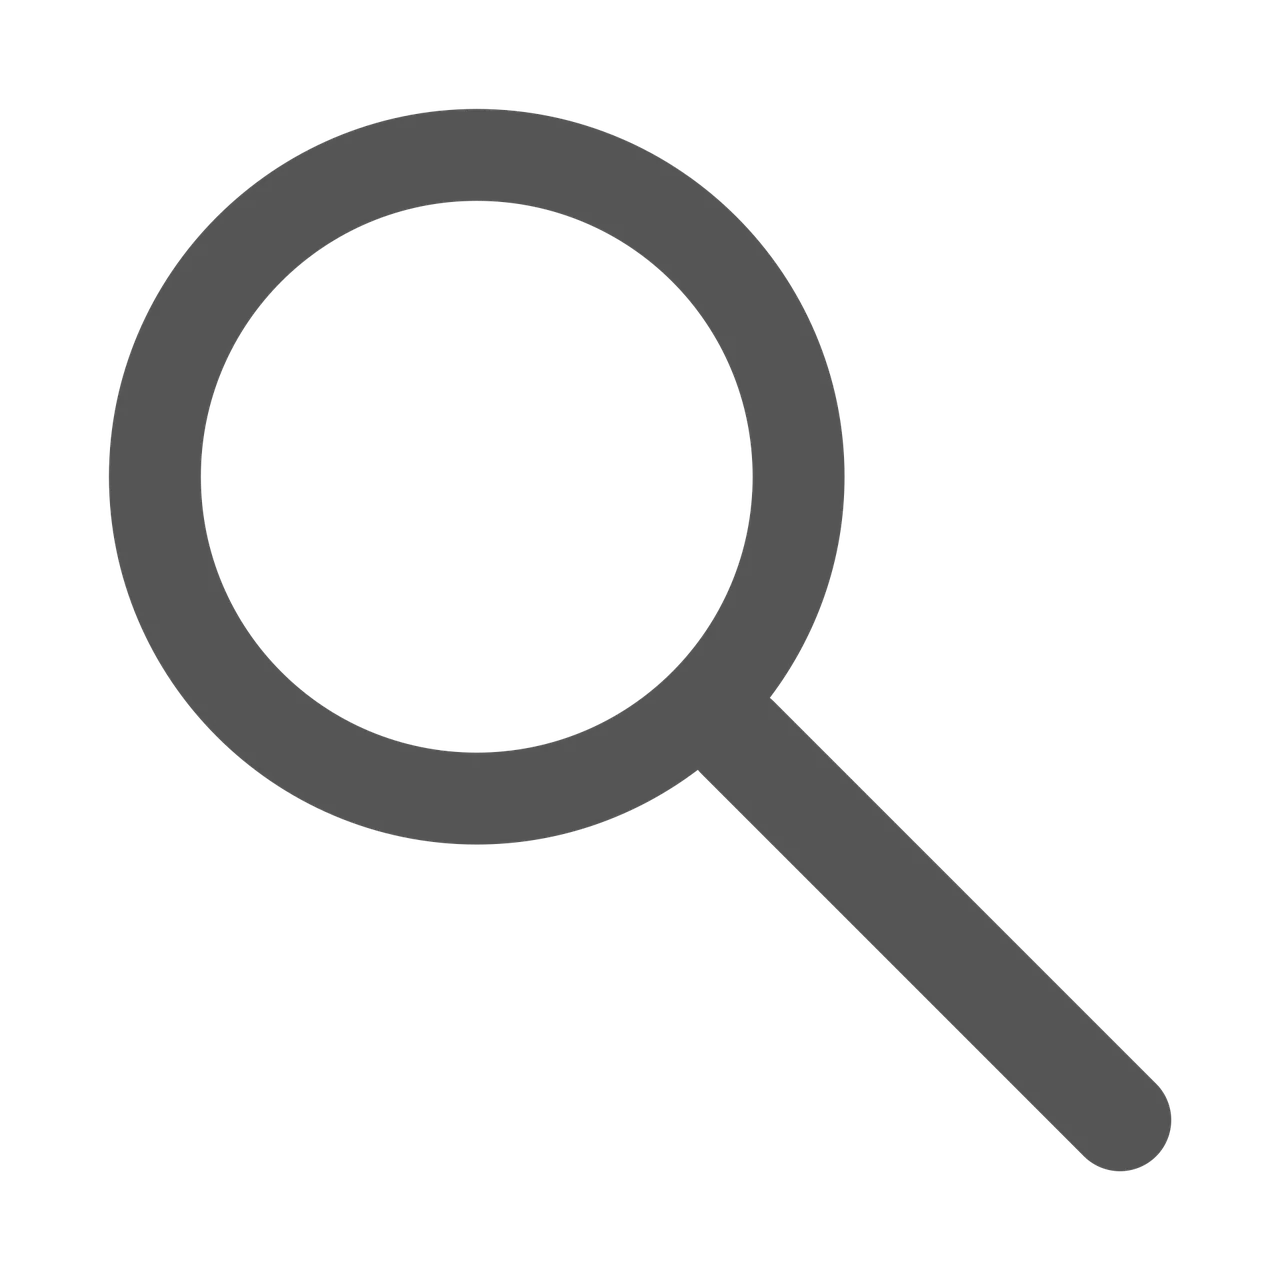
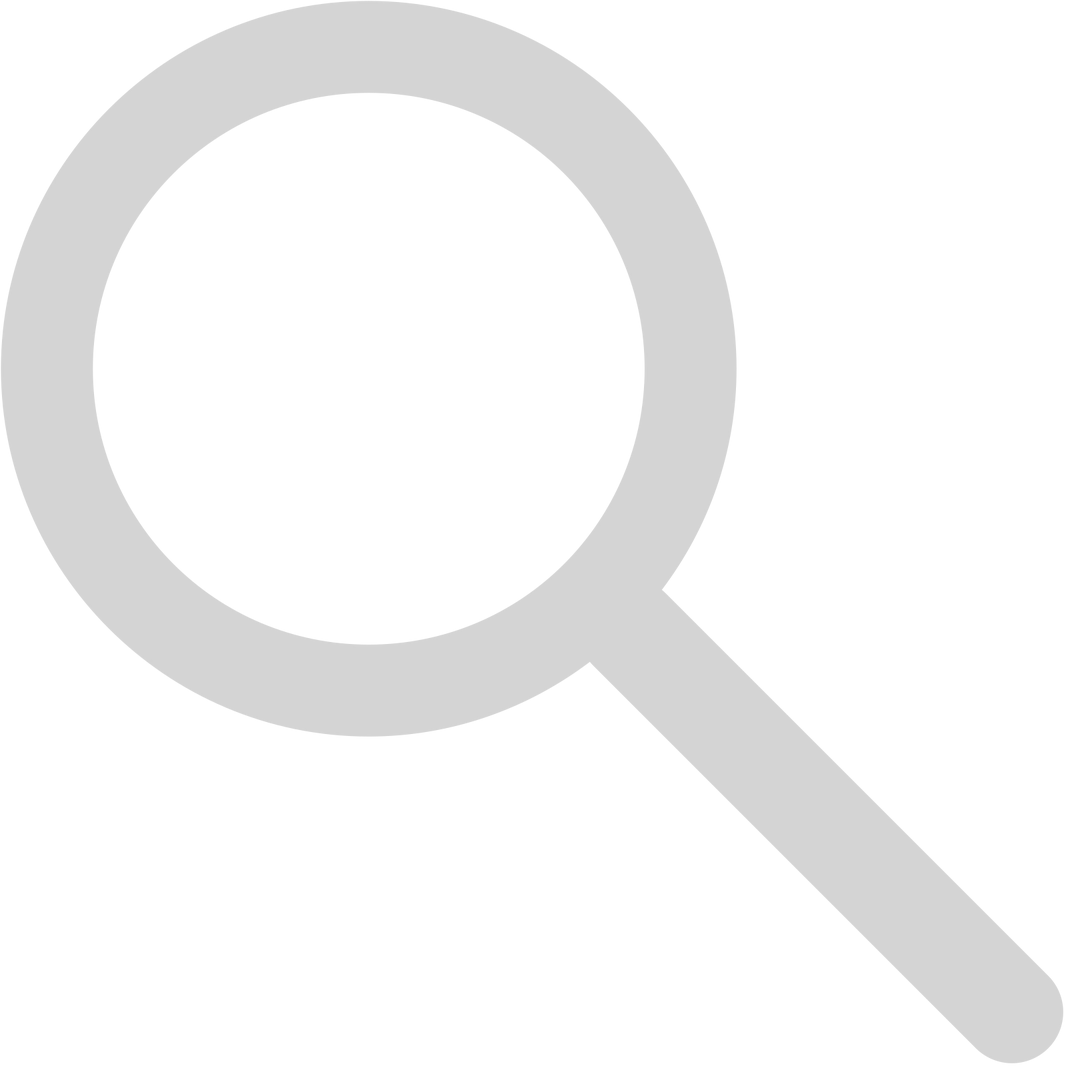
update graphique

Changed region(s): [[0.0, 0.0, 1.0, 1.0]]

diff --git a/style.css b/style.css
@@ -8,7 +8,12 @@
 body {
   font-family: Arial, sans-serif;
   background-color: #f9f9f9;
-  color: #333;
+  background-image: url('./images/site_images/ni22t23rohe61.png');
+  background-size: cover;
+  background-attachment: fixed;
+  background-position: center;
+  background-repeat: no-repeat;
+  color: #f4f4f4;
   padding: 20px;
 }
 
@@ -25,41 +30,68 @@ header h1 {
 
 /* --- NAVBAR --- */
 .navbar {
-  display: flex;
-  justify-content: space-between;
-  align-items: center;
-  border-top: 2px solid #333;
-  border-bottom: 2px solid #333;
-  padding: 10px 0;
+  display: grid;
+  grid-template-columns: repeat(5, 1fr);
+  border-top: 2px solid #ffffff;
+  border-bottom: 2px solid #ffffff;
   max-width: 1200px;
   margin: 0 auto;
+  width: 100%;
+  background-color: transparent; /* Optionnel : léger fond blanc pour lisibilité */
 }
 
-.nav-links {
+/* Alignement parfait de chaque bloc */
+.nav-item {
   display: flex;
   align-items: center;
-  gap: 20px;
+  justify-content: center;
+  padding: 8px 4px;
+  border-right: 1px solid #ffffff;
+  text-align: center;
+  position: relative;
+  min-width: 0;
+  height: 100%;
 }
 
-.nav-links a, .dropdown-btn {
-  background: none;
+.nav-item:last-child {
+  border-right: none;
+}
+
+.nav-item a, 
+.dropdown-btn {
+  background: transparent !important; /* Fond transparent */
   border: none;
-  font-size: 1.1rem;
+  font-size: clamp(0.65rem, 1.8vw, 1rem);
   font-weight: bold;
-  color: #333;
+  color: #fff;
   text-decoration: none;
   cursor: pointer;
   text-transform: uppercase;
+  width: 100%;
+  white-space: nowrap;
+  overflow: hidden;
+  text-overflow: ellipsis;
+  display: inline-flex;
+  align-items: center;
+  justify-content: center;
+  padding: 4px 0;
 }
 
-.nav-links a:hover, .dropdown-btn:hover, .nav-links a.active {
-  color: #007bff;
+/* ÉTOILE SUR L'ONGLET ACTIF AU LIEU DE LA COULEUR BLEUE */
+.nav-item a.active::before {
+  content: url('images/site_images/star.png');
+  font-size: 0.85em;
+  margin-right: 4px;
+}
+
+.nav-item a:hover,
+.dropdown-btn:hover {
+  opacity: 0.8;
 }
 
 /* --- DROPDOWN LIENS --- */
 .dropdown {
   position: relative;
-  display: inline-block;
 }
 
 .dropdown-content {
@@ -67,22 +99,36 @@ header h1 {
   position: absolute;
   top: 100%;
   left: 0;
-  background-color: #fff;
-  border: 1px solid #ccc;
-  box-shadow: 0 4px 8px rgba(0,0,0,0.1);
-  min-width: 120px;
+  width: 100%; /* Prend exactement la largeur de la boite du dropdown */
+  background-color: #354d6e;
+  border: 1px solid #fff;
+  box-shadow: 0 4px 8px rgba(0, 0, 0, 0.15);
   z-index: 100;
+  border-radius: 0 0 4px 4px;
+  overflow: hidden;
 }
 
 .dropdown-content a {
   display: block;
-  padding: 10px;
-  font-size: 0.9rem;
+  width: 100%;
+  padding: 8px 4px;
+  font-size: clamp(0.65rem, 1.5vw, 0.85rem);
   border-bottom: 1px solid #eee;
+  text-align: center;
+  color: #fff;
+  text-decoration: none;
+}
+
+.dropdown-content a::before {
+  content: none !important; /* Pas d'étoile dans le menu déroulant */
 }
 
 .dropdown-content a:last-child {
   border-bottom: none;
+}
+
+.dropdown-content a:hover {
+  background-color: #f0f0f0;
 }
 
 .dropdown:hover .dropdown-content {
@@ -90,28 +136,40 @@ header h1 {
 }
 
 /* --- SEARCH BAR --- */
+.search-box-wrapper {
+  padding: 4px;
+}
+
 .search-box {
   display: flex;
   align-items: center;
-  border: 2px solid #333;
-  border-radius: 4px;
-  overflow: hidden;
+  width: 100%;
 }
 
 .search-box input {
-  border: none;
-  padding: 6px 10px;
+  flex: 1;
+  min-width: 0;
+  border: 1px solid rgba(255, 255, 255, 0.6);
+  border-radius: 3px 0 0 3px;
+  padding: 4px 6px;
   outline: none;
+  font-size: clamp(0.65rem, 1.5vw, 0.85rem);
+  height: 28px;
+  background: rgba(255, 255, 255, 0.6); /* Optionnel : fond semi-transparent pour l'input */
 }
 
 .search-box button {
-  background: none;
-  border: none;
-  padding: 6px 10px;
+  display: flex;
+  align-items: center;
+  justify-content: center;
+  background: transparent; /* Transparence au lieu de #eee */
+  border: 1px solid rgba(255, 255, 255, 0.6);
+  border-left: none;
+  border-radius: 0 3px 3px 0;
+  padding: 0 8px;
   cursor: pointer;
-  border-left: 1px solid #333;
+  height: 28px;
 }
-
 /* --- CONTENU & SECTIONS --- */
 main {
   max-width: 1200px;
@@ -127,7 +185,7 @@ main {
 
 .contest-dates {
   font-size: 0.95rem;
-  color: #666;
+  color: #bbbbbb;
   margin-bottom: 15px;
 }
 
@@ -148,8 +206,8 @@ main {
 
 /* --- CARTE DESSIN --- */
 .drawing-card {
-  background: #fff;
-  border: 1px solid #ddd;
+  background: #354d6e;
+  border: 1px solid #354d6e;
   border-radius: 6px;
   overflow: hidden;
   display: flex;
@@ -158,7 +216,7 @@ main {
 
 .drawing-image-wrapper {
   aspect-ratio: 3 / 4;
-  background-color: #eee;
+  background-color: #354d6e;
   display: flex;
   align-items: center;
   justify-content: center;
@@ -179,7 +237,7 @@ main {
 
 .drawing-info .author-link {
   font-weight: bold;
-  color: #333;
+  color: #f4f4f4;
 }
 
 /* --- CARTE ARTISTE (PP RONDE) --- */
@@ -207,10 +265,10 @@ main {
 
 /* --- CARTE CONCOURS (LISTE CONCOURS) --- */
 .contest-card {
-  border: 2px solid #333;
+  border: 2px solid #354d6e;
   border-radius: 6px;
   overflow: hidden;
-  background: #fff;
+  background: #354d6e;
   cursor: pointer;
 }
 
@@ -218,12 +276,12 @@ main {
   width: 100%;
   aspect-ratio: 4 / 3;
   object-fit: cover;
-  background-color: #eee;
+  background-color: #354d6e;
 }
 
 .contest-card-title {
   padding: 10px;
   font-weight: bold;
   text-align: center;
-  border-top: 2px solid #333;
+  border-top: 2px solid #354d6e;
 }

diff --git a/index.html b/index.html
@@ -13,25 +13,33 @@
   <header>
     <h1>LicornKibri's contests</h1>
     <nav class="navbar">
-      <div class="nav-links">
+      <div class="nav-item">
         <a href="#" id="nav-home" class="active">Accueil</a>
+      </div>
+      <div class="nav-item">
         <a href="#" id="nav-contests">Concours</a>
+      </div>
+      <div class="nav-item">
         <a href="#" id="nav-artists">Artistes</a>
-        
-        <!-- Menu déroulant Liens -->
-        <div class="dropdown">
-          <button class="dropdown-btn">Liens ▾</button>
-          <div class="dropdown-content">
-            <a href="https://discord.gg/CPRnPhcCJe" target="_blank">Discord</a>
-            <a href="https://www.twitch.tv/licornkibri_" target="_blank">Twitch</a>
-          </div>
+      </div>
+      
+      <!-- Menu déroulant Liens -->
+      <div class="nav-item dropdown">
+        <button class="dropdown-btn">Liens ▾</button>
+        <div class="dropdown-content">
+          <a href="https://discord.gg/CPRnPhcCJe" target="_blank">Discord</a>
+          <a href="https://www.twitch.tv/licornkibri_" target="_blank">Twitch</a>
         </div>
       </div>
 
       <!-- Barre de recherche -->
-      <div class="search-box">
-        <input type="text" placeholder="Rechercher...">
-        <button type="button"><img src="./images/site_images/magnifying-glass-1976105_1280.png" height=20 px></img></button> 
+      <div class="nav-item search-box-wrapper">
+        <div class="search-box">
+          <input type="text" placeholder="Rechercher...">
+          <button type="button">
+            <img src="./images/site_images/magnifying-glass-1976105_1280.png" alt="Search" height="12">
+          </button>
+        </div>
       </div>
     </nav>
   </header>

diff --git a/app.js b/app.js
@@ -269,4 +269,20 @@ function openLightbox(imageSrc, imageAlt = "Dessin") {
   lightboxImg.src = imageSrc;
   lightboxImg.alt = imageAlt;
   lightbox.style.display = "flex";
+
+
+}
+function setActiveNav(navId) {
+  // Retire la classe 'active' de TOUS les liens de la navbar
+  document.querySelectorAll(".navbar a").forEach(a => {
+    a.classList.remove("active");
+  });
+
+  // Ajoute la classe 'active' uniquement sur l'onglet sélectionné s'il existe
+  if (navId) {
+    const activeLink = document.getElementById(navId);
+    if (activeLink) {
+      activeLink.classList.add("active");
+    }
+  }
 }

diff --git a/discord_bot.py b/discord_bot.py
@@ -6,7 +6,7 @@ from datetime import datetime, timezone
 import aiohttp
 
 # --- CONFIGURATION ---
-TOKEN_DISCORD = "M***8"
+TOKEN_DISCORD = "M**8"
 CHANNEL_ID = 1544700845180981268
 DOWNLOAD_FOLDER = "./images/drawings"
 PFP_FOLDER = "./images/pfp"
